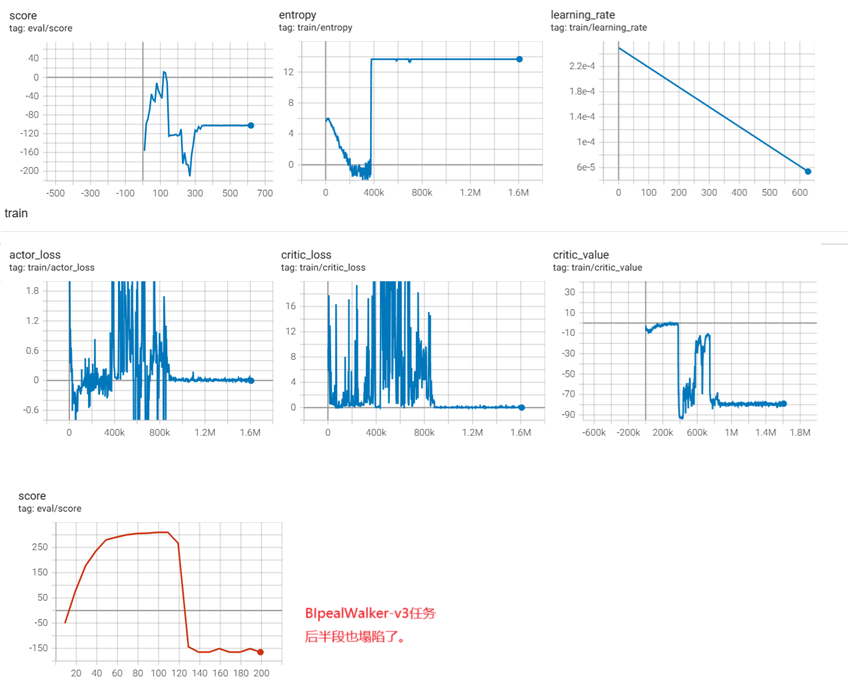
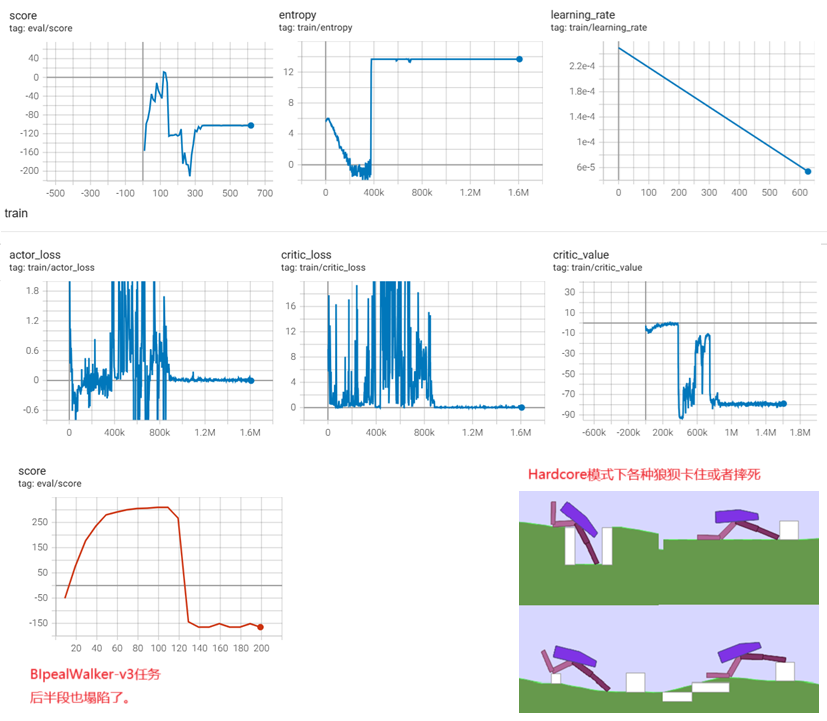
xx

diff --git a/HIRO.md b/HIRO.md
@@ -1,0 +1,67 @@
+**Data-Efficient Hierarchical Reinforcement Learning**
+
+### Introduction
+
+DRL在机械手臂控制等场景表现突出，但它只能完成一些原子的、简单的任务，例如移动一个零件，极少涉及到复杂的任务，例如在一个maze游戏里，蚂蚁需要跑到到绿色的终点位置，它除了需要规划线路，还需要找到钥匙打开门，或者推动方块填充沟壑铺路。
+
+层级RL方法，有多层策略网络，分别负责决策和执行，很有希望搞定上述复杂任务。先前的HRL研究确实取得了一些鼓舞人心的成果。然而，许多方法缺乏通用性，往往需要一定程度的手工设计以适配具体任务，而且常常依赖昂贵的on-policy训练方式，无法充分利用近年来在off-policy无模型强化学习方面的进展——这些进展已经显著降低了样本复杂度要求。
+
+
+
+在HRL中，在构造低层策略时，**能否区分出语义不同的行为模块**，是能否充分发挥 HRL 优势的关键。下面举个例子说明这个观点：
+
+![image-20250630093215360](img/image-20250630093215360.png)
+
+我们提出了一种HIRO算法，它的设计核心和动机要点：
+
+- 目标：构建一种通用且高效的HRL算法，避免以往方法中过于依赖任务特定设计和昂贵的on-policy训练。
+
+------
+
+1、通用性设计（Generality）
+
+- 传统HRL方法通常需要手工设计低层行为空间或子任务结构，不具有普适性。
+- HIRO不依赖任务特定的结构或人为设定的子技能库，而是让高层输出“目标状态”作为指令。
+- 低层策略的目标是使 agent 的状态靠近这个目标状态，且这一过程不依赖于外部任务结构。
+- 所用的目标直接来自环境的原始状态观测（raw state observation），比如位置、姿态、关节角度等，而不是经过神经网络或其他方法变换过的抽象表示（embedding）。当然这点在很多物理控制类任务中很有效，但并不是在所有场景下都适用
+
+------
+
+2、样本效率提升（Sample Efficiency）
+
+- 为了能在实际场景（如机器人控制）中使用，样本效率成为关键。
+- HIRO在高层和低层都采用off-policy训练方法，可以利用已有的经验数据，不需每次都重新交互。
+- 这样能利用近年来off-policy RL方法（如TD3）带来的采样效率提升。
+- 相比需要on-policy策略梯度的旧HRL方法，大大减少了环境交互次数。
+
+------
+
+3、低层策略变化带来的非平稳性问题（Non-Stationarity Issue）
+
+- 在HRL中，高层策略选择的是“目标”或“子任务”，由低层策略去执行。
+- 然而低层策略在训练过程中会持续变化，导致同一个高层目标对应的实际行为也在变。
+- 这会造成高层观察到的“状态—目标—结果”的经验样本变得不稳定（non-stationary），影响高层训练。例如：高层训练时复用旧数据（如旧的“往前走3米” → 早期低层策略还不完善，所以没怎么移动），在当前低层下却完全不成立，导致高层经验“失真”，训练变得不稳定。
+- HIRO引入**off-policy修正机制（off-policy correction）**，通过“重标定”历史高层动作来解决这个问题：
+  - 将历史高层经验中的目标，替换为在当前低层策略下更可能产生相同行为的目标；
+  - 保证这些经验在当前策略下仍是有效的，从而可以被用于训练。
+
+总之：HIRO通过通用的目标指令机制、off-policy双层训练架构和重标定技巧，解决了传统HRL中通用性差、样本效率低和高层训练不稳定的问题。
+
+### 2、Background
+
+介绍了RL、off-policy RL、TD Learning，这个比较熟悉，不赘述。
+
+### 3、General and Efficient Hierarchical Reinforcement Learning
+
+ HIRO: **HI**erarchical **R**einforcement learning with **O**ff-policy correction.
+
+![image-20250630111435432](img/image-20250630111435432.png)
+
+#### 打分的函数实现
+
+![image-20250630120011993](img/image-20250630120011993.png)
+
+### Bison的实验
+
+直接硬编码Q2的规划线路，用hDQN算法搞定FrozenLake任务，着重训练Q1
+

diff --git a/to_read.md b/to_read.md
@@ -103,7 +103,7 @@
 | 算法          | 论文名称                                             | ArXiv 链接                       |
 | ------------- | ---------------------------------------------------- | -------------------------------- |
 | h-DQN         | Hierarchical Deep Reinforcement Learning             | https://arxiv.org/abs/1604.06057 |
-| HIRO          | Data-Efficient Hierarchical Reinforcement Learning   | https://arxiv.org/abs/1810.00257 |
+| HIRO          | Data-Efficient Hierarchical Reinforcement Learning   | https://arxiv.org/abs/1805.08296 |
 | Option-Critic | The Option-Critic Architecture                       | https://arxiv.org/abs/1609.05140 |
 | FuN           | FeUdal Networks for Hierarchical Reinforcement Learn | https://arxiv.org/abs/1703.01161 |
 | HAC           | Learning Multi-Level Hierarchies with Hindsight      | https://arxiv.org/abs/1712.00948 |

diff --git a/AggreVaTeD.md b/AggreVaTeD.md
@@ -1518,6 +1518,8 @@ env.save('VecNormalize')
 
 算法实现应该没有太大问题，BipedalWalker-v3任务可以收敛。但Hardcore版本不收敛
 
+演示效果看是在某个方块障碍物那里就以各种方式卡住了
+
 ![image-20250629111118577](img/image-20250629111118577.png)
 
 ```python
